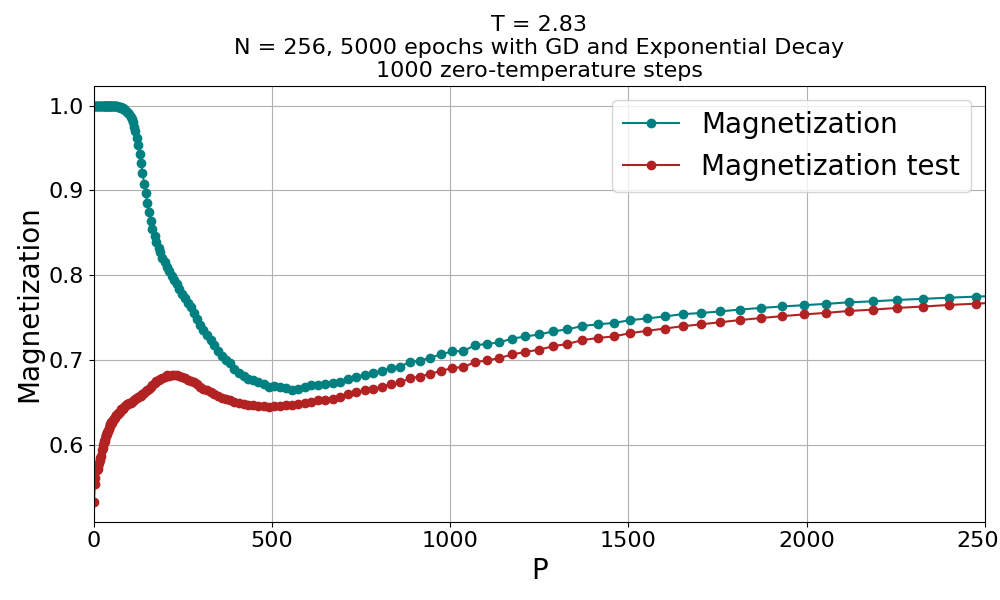
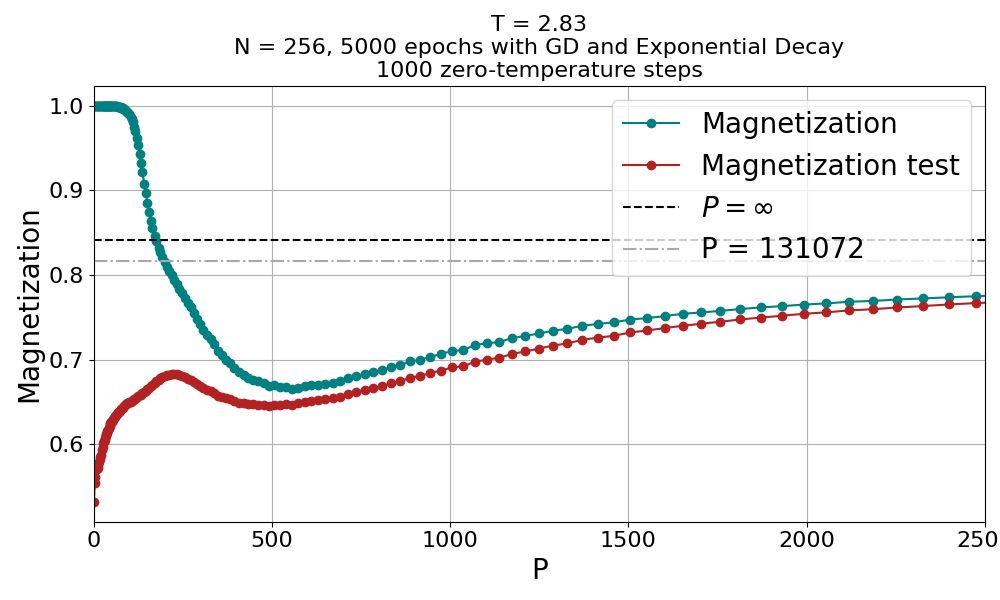
changed wrong P for asymptotics (131072 instead of 130072)

diff --git a/Grafici/Code_for_Plots/stability_withP_L16.py b/Grafici/Code_for_Plots/stability_withP_L16.py
@@ -36,7 +36,7 @@ plt.plot(all_ms_np[:, 0], all_ms_np[:, 1], marker='o', linestyle='-', color='tea
 plt.plot(all_ms_np[:, 0], all_ms_np[:, 2], marker='o', linestyle='-', color='firebrick', label='Magnetization test')
 # Plot horizontal line at magnetization perfect
 plt.axhline(y=asymptotics["m_perf"].values[0], color='black', linestyle='--', label=r'$P = \infty$')
-plt.axhline(y=asymptotics["m_train"].values[0], color='darkgray', linestyle='-.', label='P = 130072')
+plt.axhline(y=asymptotics["m_train"].values[0], color='darkgray', linestyle='-.', label='P = 131072')
 
 
 # Adding labels and title
